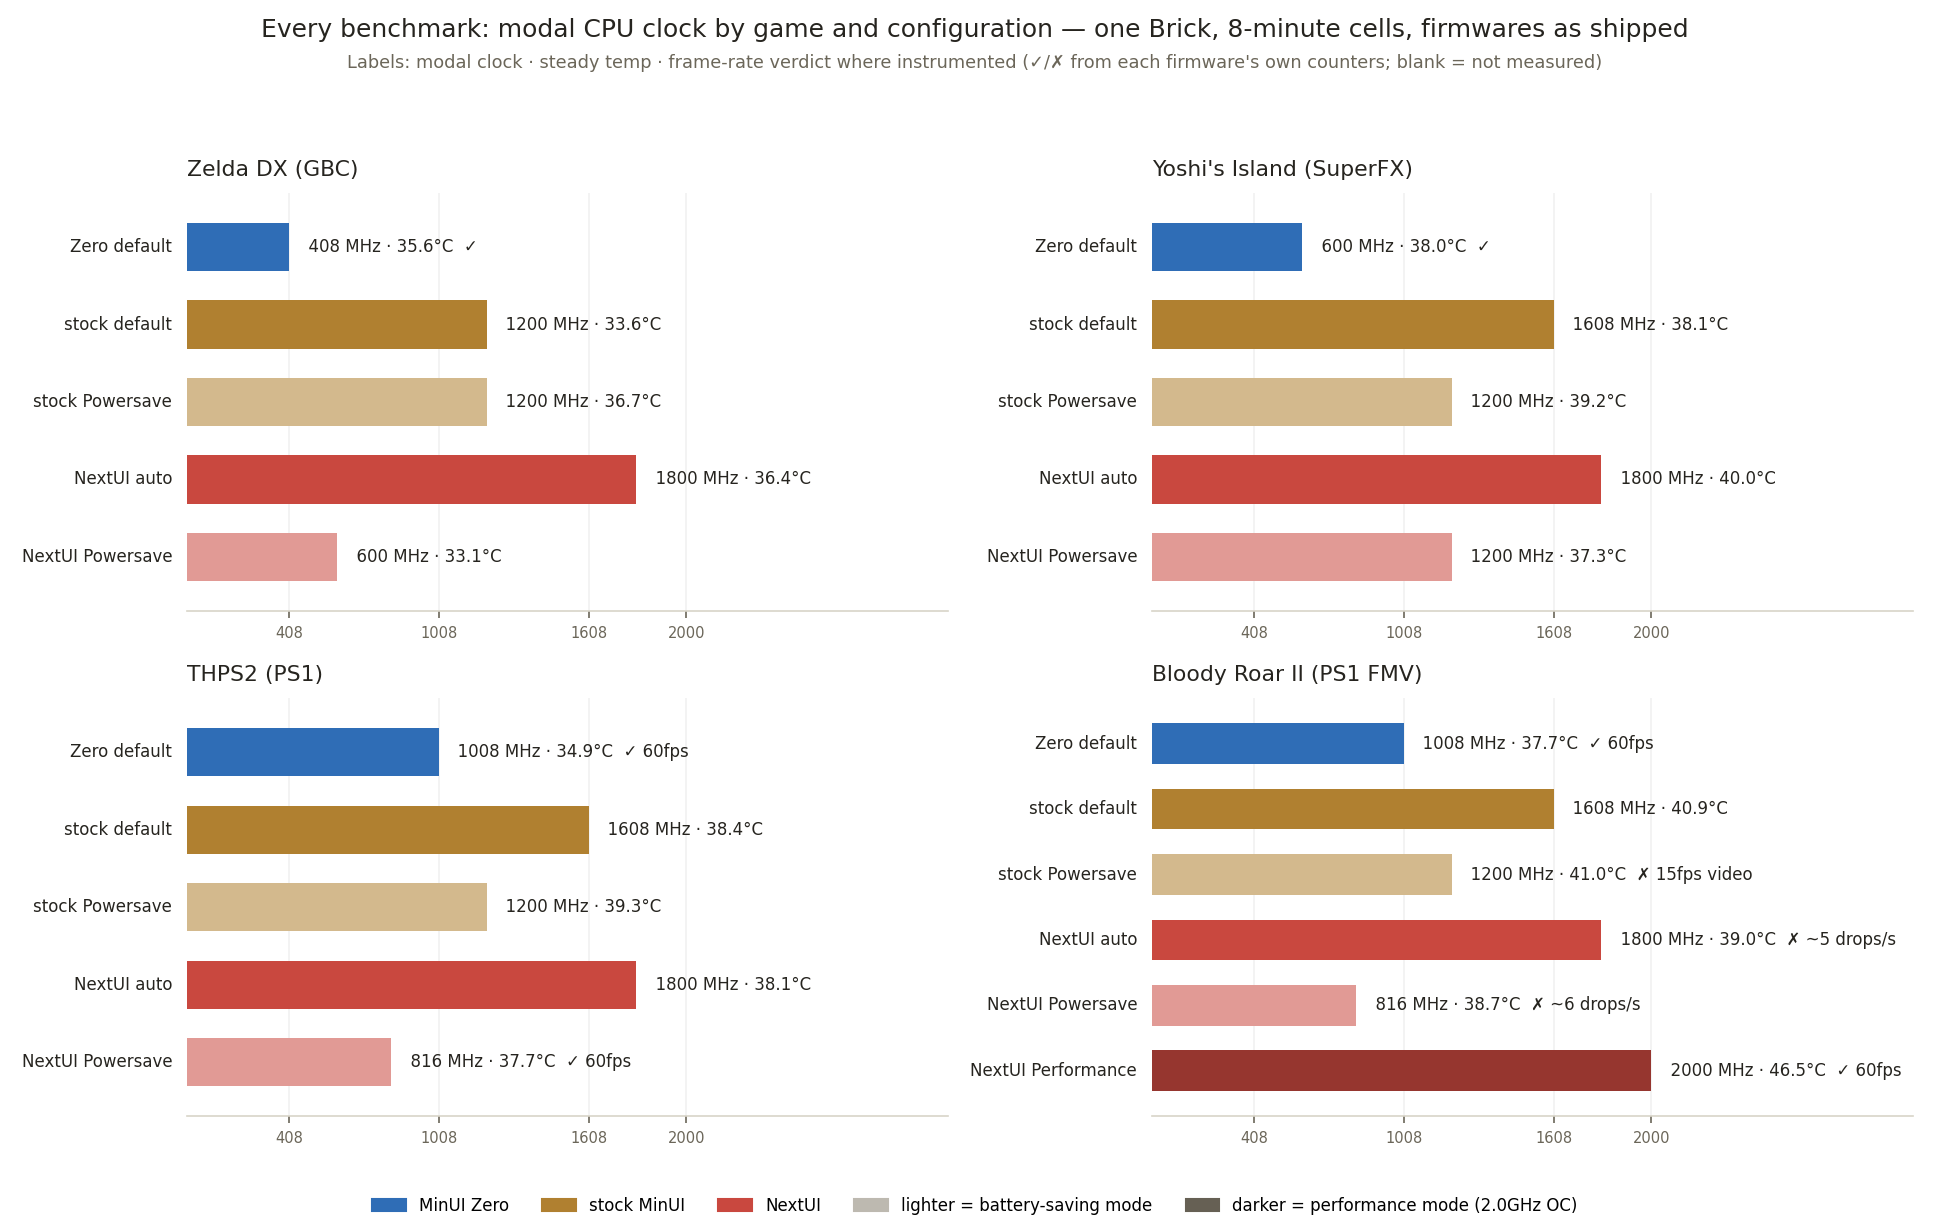
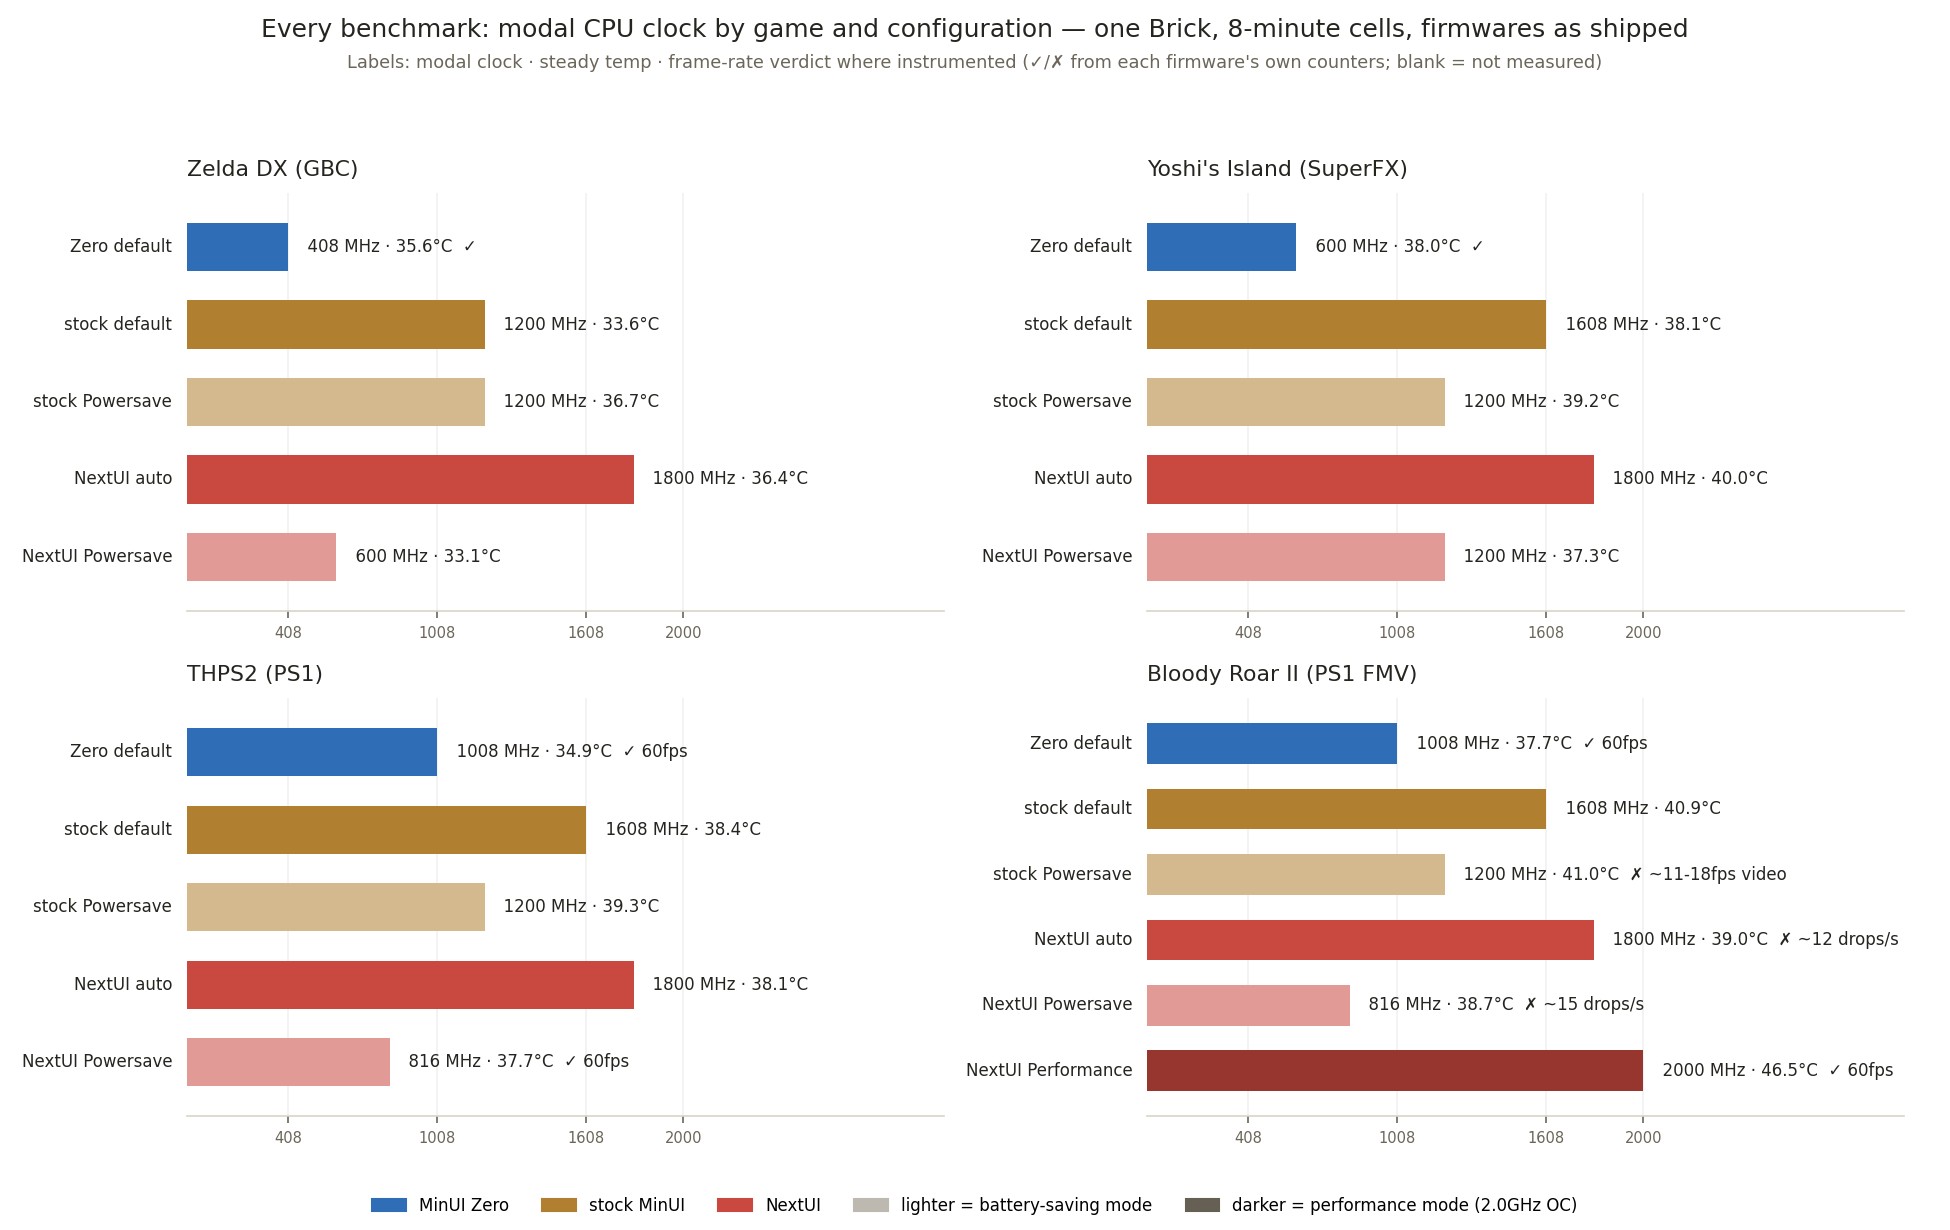
Bench: consolidated neutral report + correct drop-rate/fps-window and instrumented-energy attribution errors

diff --git a/docs/bench/three-firmware-benchmark-202607.md b/docs/bench/three-firmware-benchmark-202607.md
@@ -1,0 +1,161 @@
+# Three-firmware benchmark — TrimUI Brick, July 2026
+
+A measured comparison of MinUI Zero v1.3-rc (20260710), stock MinUI v20251127-1, and
+NextUI v6.12.0 (20260709) on one TrimUI Brick (Allwinner A133P). This document
+consolidates and supersedes the numbers in three-firmware-real-20260710.md and its
[phone redacted] addendum; where they disagree, this document is correct (two figures were
+revised after re-verification against the raw logs — see "Corrections" at the end).
+
+## Setup
+
+- One 64GB SD card, MBR, one partition per firmware, each installed untouched from its
+  official release zip and booted through its own unmodified boot chain (a chooser on a
+  separate partition selects which partition becomes /mnt/SDCARD before handoff).
+- Identical 13-game library on every partition. Games were launched through each
+  firmware's own menu protocol (/tmp/next), so per-game clock policy is exactly what a
+  user gets.
+- Every cell: 8 minutes of attract mode, sampled every 20 s over SSH (temp, clock,
+  governor, battery, load; day-2 cells also log the fuel-gauge coulomb counter).
+  Statistics below use the final 5 minutes of each cell.
+- Equal conditions per cell: WiFi on, screen on, identical forged L3 keep-alive inputs,
+  battery discharging. Battery-saving cells were re-run at 85–100% charge after a first
+  attempt on a nearly-empty battery read 3–4°C hot (archived as *-lowbatt.csv).
+
+## Results — shipped defaults
+
+| Game | Zero default | stock default | NextUI auto (default) |
+|---|---|---|---|
+| Zelda DX (GBC) | 408 flat · 35.6°C | 1200 flat · **33.6°C** | modal 1800 (1416–1800) · 36.4°C |
+| Yoshi's Island (SuperFX) | modal 600 (600–1416) · 38.0°C | 1608 flat · 38.1°C | modal 1800 · 40.0°C (43.1 peak) |
+| THPS2 (PS1) | modal 1008 (600–1200) · **34.9°C** | 1608 flat · 38.4°C | modal 1800 · 38.1°C |
+| Bloody Roar II (PS1 FMV) | modal 1008 (bursts to 1800) · **37.7°C** (44.2 peak) | 1608 flat · 40.9°C (44.5 peak) | modal 1800 · 39.0°C (43.2 peak) |
+
+Notes, both directions:
+- Zero posts the lowest clock in every row and the lowest temperature on the two PS1
+  rows. Its clock is also the only one that varies with content.
+- Stock's fixed 1200 for GBC is the **coolest Zelda cell in the whole dataset** — at
+  featherweight loads the display dominates power draw and a lower CPU clock does not
+  imply a lower device temperature. Zero's advantage is negligible-to-absent on such
+  content; it materializes on heavy games.
+- NextUI's auto (schedutil 408–1800) sits at or near its ceiling for all four games,
+  including GBC. Its stack also carries three background daemons and a GL pipeline
+  (~+1.0 loadavg vs the MinUI-family stacks), so its utilization-driven scaler sees a
+  busier system.
+
+## Results — battery-saving modes
+
+Both competitors ship user-selectable battery modes; Zero does not (its default governor
+is its only mode). Modes were engaged through each firmware's own mechanism.
+
+| Game | stock Powersave (fixed 1200) | NextUI Powersave (conservative ≤1200) |
+|---|---|---|
+| Zelda DX | 1200 · 36.7°C | modal 600 (408–600) · **33.1°C** |
+| Yoshi's Island | 1200 · 39.2°C | 1200 · 37.3°C |
+| THPS2 | 1200 · 39.3°C | modal 816 (816–1008) · 37.7°C |
+| Bloody Roar II | 1200 · 41.0°C | modal 816 (600–816) · 38.7°C |
+
+NextUI's Powersave posts the coolest cell of the entire dataset on Zelda (33.1°C). The
+frame-rate section below is required context for the PS1 rows.
+
+## Frame-rate measurements
+
+Neither stock nor NextUI logs frame rate (stock's fps/underrun log lines are commented
+out upstream; NextUI computes fps/drops for its on-screen debug HUD but does not log
+them). To measure, we built instrumented builds from each project's own tree — stock:
+the author's own two debug lines uncommented (tag v20251127-1); NextUI: a 5-second log
+of the exact fields its HUD displays (main @ 1672c89a) — ran the cells below, then
+restored the shipped binaries. Patches (~35 lines each): .notes/upstream/*-instrumentation.patch.
+Instrumented builds were used only for these verdicts, with one disclosed exception in
+the Energy section.
+
+Captured logs cover the final ~3.3 minutes of each 8-minute cell (40 samples at 5 s).
+
+| Configuration, Bloody Roar II | Result (from the firmware's own counters) |
+|---|---|
+| stock Powersave (1200) | video renders **10.7–17.7 fps** while the core ticks ~60/s (audio remains clean) |
+| NextUI Powersave (816) | drop counter +2,886 in the logged window (**~15/s**) |
+| NextUI auto (1800, default) | drop counter +2,340 in the logged window (**~12/s**); fps dipped to 53.4 |
+| NextUI Performance (2000) | drop counter **+5** in the logged window — holds |
+| Zero default (modal 1008) | holds 60/60 (Zero's own frame telemetry; also verified during the v1.3 campaign with on-screen HUD) |
+| NextUI Powersave, THPS2 | drop counter **+1** — holds |
+
+Caveats: the semantics of NextUI's `frame_drops` counter are theirs (it is the "D:"
+figure their debug HUD shows); we report its movement, not an interpretation of which
+pipeline stage dropped. Stock's fps counter is the author's own rendered-frames metric.
+Community reports that THPS2 runs well at 1008–1200 on NextUI are consistent with the
+THPS2 Powersave row; BR2 is where sub-1800 static configurations measurably fail.
+
+## Energy (fuel-gauge coulomb counter)
+
+The AXP2202 gauge steps in 30 mAh quanta; only multi-quantum differences are treated as
+signal. Same game, same duration, shipped binaries:
+
+| Cell (8 min, THPS2) | Charge consumed |
+|---|---|
+| Zero default | 30 mAh |
+| stock default (1608) | 30 mAh |
+| NextUI auto | 60 mAh |
+
+One BR2 comparison exists only via an instrumented cell (disclosed exception): NextUI
+Performance BR2 consumed 90 mAh where Zero's (shipped, undervolted) BR2 cell consumed
+30 mAh. The instrumented build's logging overhead is negligible but the cell ran late
+in a warm chain; treat the 3× as indicative, the 2× THPS2 figure as solid.
+
+Undervolt A/B (Zero, UV on vs off, back-to-back): the difference is **below the gauge's
+30 mAh resolution** in 8-minute cells. The supportable statement is the rail arithmetic
+from the measured margin (~10% of CPU-rail power at the top clock from 75 mV), not a
+gauge figure.
+
+## What explains the differences
+
+The mechanisms are separable, and were measured separately:
+
+- **Clock policy** (isolated in the emulated three-policy bench, same firmware, policy
+  as the only variable): plain schedutil ran Zelda DX at 1416–1800; the frame-aware
+  ceiling held it at 408 at the same frame rate. Utilization-driven scaling overshoots
+  on emulator workloads because per-frame CPU bursts read as demand regardless of
+  deadline slack. This is the whole of Zero's advantage on light games — and it is a
+  clock/energy advantage, not necessarily a temperature one (see the Zelda rows).
+- **Workload cost** (the PS1 rows): Zero's pcsx build carries a NEON rewrite of the FMV
+  color decoder (115→50 ms per 2-second window) and disables the emulator's async GPU
+  thread, which serializes on this SoC (that change alone lowered THPS2's required
+  clock from 1584 to 1008). The other firmwares ship the default core configuration and
+  compensate with clock. The decoder fix has been submitted upstream; if adopted, their
+  PS1 numbers should improve.
+- **Stack weight**: NextUI runs a GL render pipeline plus batmon/audiomon/gametimectl
+  daemons — features with real costs that its users may value; the THPS2 energy row
+  quantifies the cost side only.
+- **Undervolt**: Zero applies a per-chip calibrated voltage table (this device: 75 mV
+  minimum margin; every OPP at or below 1008 MHz ran to the calibration floor without
+  failure). Contribution to these short cells is below gauge resolution.
+- **NextUI history note**: NextUI's Performance mode originally ran schedutil with a
+  2000 MHz ceiling; commit afb3783d (#727) changed it to the pinned `performance`
+  governor after users reported slowdowns. Its author reports extensive testing behind
+  the current defaults, and the Performance-mode BR2 row confirms the pinned mode does
+  what it promises.
+
+## Caveats
+
+- Attract mode, not gameplay input. Single device, single run per cell (except Zelda,
+  which repeated across boots within 0.5°C, and THPS2, which the emulated bench
+  independently reproduced within 0.5°C).
+- Temperatures compare fairly within a pass, less fairly across passes (late-chain
+  cells run warmer; pass order is disclosed in the raw data). Day-2 UV-after cells ran
+  on a chassis heat-soaked by a 2-hour plugged-in calibration and are excluded from
+  temperature claims.
+- WiFi-on was required for measurement and is not Zero's shipped default (radios off).
+- Verdict blanks in the tables mean "not measured," not "passes."
+
+## Raw data
+
+Everything above traces to bench3-real-raw/ (CSVs, *.fpslog, charts) and
+bench3-raw/ (the emulated three-policy pass). Instrumentation patches:
+.notes/upstream/stock-instrumentation.patch, nextui-instrumentation.patch.
+
+## Corrections (2026-07-11 re-verification)
+
+Two figures published in the addendum were wrong and are corrected here: NextUI drop
+rates were computed against the full 8-minute cell, but the captured logs cover only
+the final ~3.3 minutes — the correct rates are ~12/s (auto) and ~15/s (Powersave), not
+~5/s and ~6/s. Stock Powersave's BR2 video floor is 10.7 fps, not 14.6. The direction
+of every conclusion is unchanged; the magnitudes were understated.

diff --git a/docs/bench/three-firmware-real-addendum-20260711.md b/docs/bench/three-firmware-real-addendum-20260711.md
@@ -1,5 +1,10 @@
 # Addendum (2026-07-11): powersave modes, frame-rate receipts, energy, undervolt
 
+> **Superseded by three-firmware-benchmark-202607.md** (the consolidated report), which
+> also corrects three figures below: the captured fps logs cover the final ~3.3 minutes
+> of each cell, not the full 8 — NextUI drop rates are ~12/s (auto) and ~15/s
+> (Powersave), and stock Powersave's video floor is 10.7 fps.
+
 Extends three-firmware-real-20260710.md with four measurement passes run the following day
 on the same TESTER multiboot card and Brick. Raw CSVs + fps logs in bench3-real-raw/.
 
@@ -31,22 +36,24 @@ contested cells, then restored the shipped binaries. Patches: .notes/upstream/*-
 
 | Config | Verdict | Evidence |
 |---|---|---|
-| stock Powersave (1200) | **FAILS — ~15 fps video** | own fps counter: 14.6-17.7 fps (core ticks 60/s, so audio is clean — a fluid-audio slideshow) |
-| NextUI Powersave (816) | **FAILS — ~6 drops/sec** | own drop counter: +2,886 drops/cell |
-| NextUI auto (1800, default) | **FAILS — ~5 drops/sec** | +2,340 drops/cell |
-| NextUI Performance (2000 OC) | **holds** | +5 drops/cell |
+| stock Powersave (1200) | **FAILS — ~11-18 fps video** | own fps counter: 10.7-17.7 fps (core ticks 60/s, so audio is clean — a fluid-audio slideshow) |
+| NextUI Powersave (816) | **FAILS — ~15 drops/sec** | own drop counter: +2,886 over the logged final ~3.3 min |
+| NextUI auto (1800, default) | **FAILS — ~12 drops/sec** | +2,340 over the logged window; fps dipped to 53.4 |
+| NextUI Performance (2000 OC) | **holds** | +5 over the logged window |
 | Zero default (modal 1008) | **holds** | D48 HUD receipts (60/60), 0 underruns campaign-wide |
-| NextUI Powersave, THPS2 | holds | +1 drop/cell — the community "[phone redacted] works" report is right *for THPS2* |
+| NextUI Powersave, THPS2 | holds | +1 in the logged window — the community "1008-1200 works" report is right *for THPS2* |
 
-Only two configurations hold BR2 at full speed: **Zero at modal 1008 / ~30 mAh / 37.7°C***
-and **NextUI Performance at 2000 locked / 90 mAh / 46.5°C (50.6 peak)**. Double the clock,
-triple the energy, +9°C, for the same on-screen result. See br2-hero.png.
+Only two configurations hold BR2 at full speed: **Zero at modal 1008 / 37.7°C** and
+**NextUI Performance at 2000 locked / 46.5°C (50.6 peak)**. Double the clock and +8.8°C
+for the same on-screen result; the energy comparison (~3×) rests on an instrumented cell
+and is indicative (see §3). See br2-hero.png.
 
 ## 3. Energy (AXP2202 coulomb counter, per 8-min cell)
 
 The fuel gauge steps in 30 mAh quanta, so only multi-quantum deltas are claims:
 - THPS2: Zero 30 · stock 30 · NextUI **60** (their GL pipeline + daemons cost real current)
-- BR2 at full speed: Zero **30** vs NextUI Performance **90** — 3×.
+- BR2 at full speed: Zero **30** (shipped binary) vs NextUI Performance **90** (instrumented
+  cell — indicative only, see next bullet) — ~3×.
 - Instrumented NextUI cells read 90 across modes (logging + late-chain heat inflate them;
   compare only shipped-binary cells across firmwares).
 